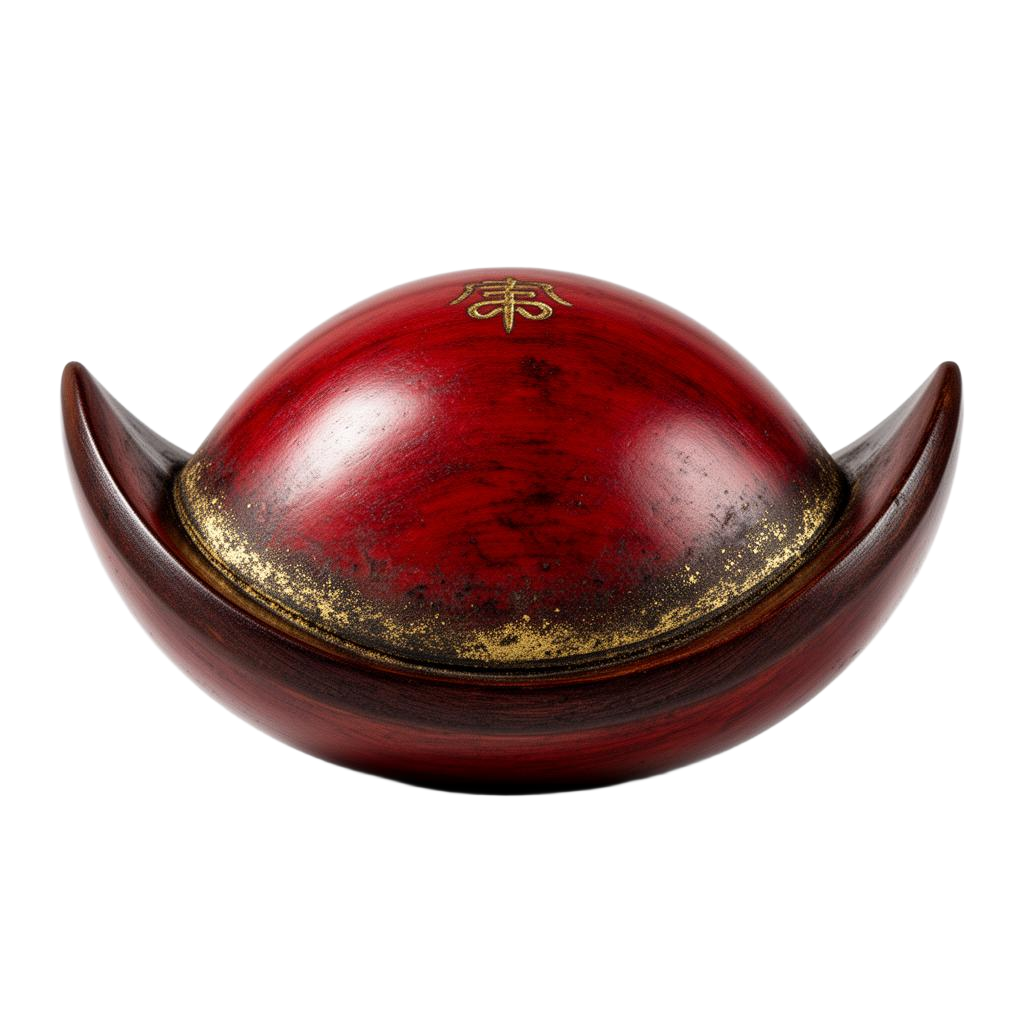
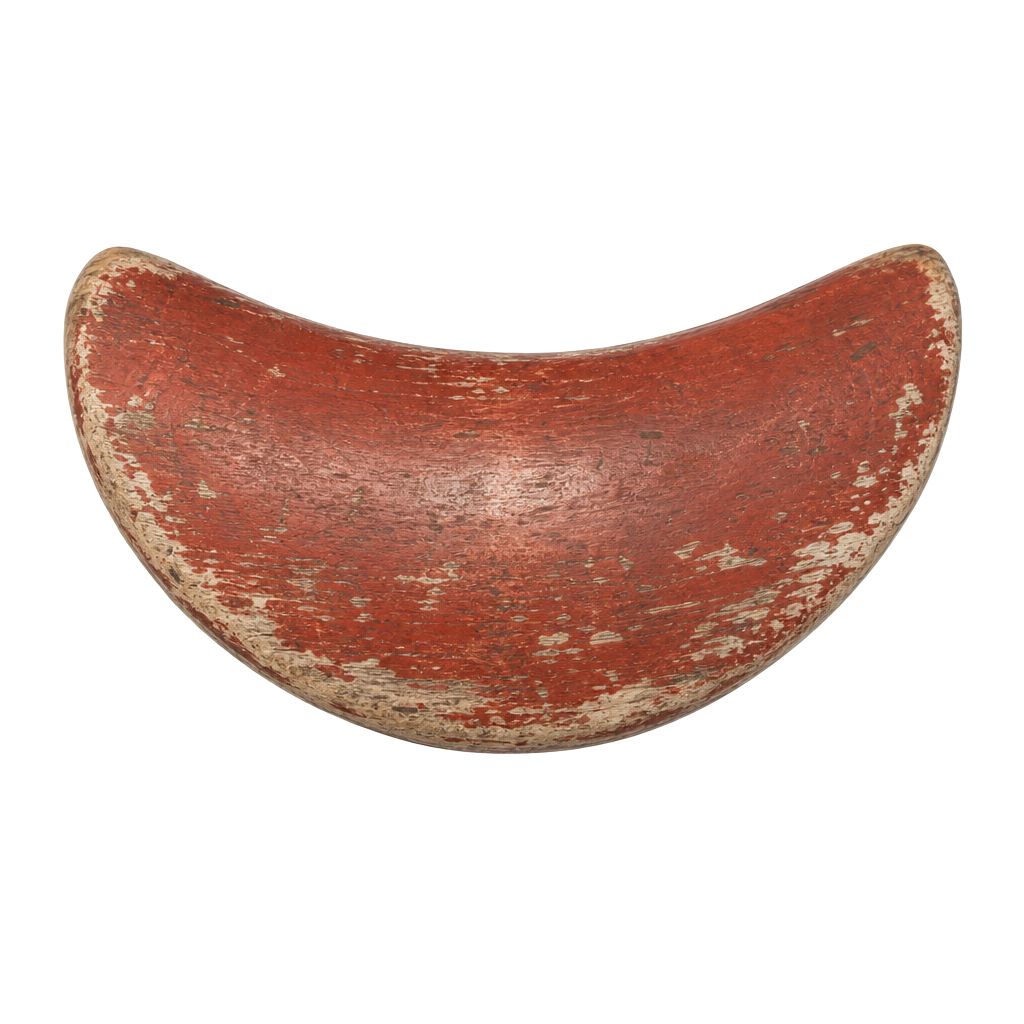
Changes

diff --git a/.lovable/plan.md b/.lovable/plan.md
@@ -1,174 +1,92 @@
-## 通天大圣灵签 — Web 高保真原型方案
 
-> 注：本项目运行环境为 TanStack Start Web 应用（非微信原生小程序）。本原型在浏览器中以移动端竖屏比例呈现完整流程、状态机、UI 组件和占位视觉，可作为后续微信小程序开发的设计与逻辑参考。
+## 目标
 
----
-
-### 一、整体架构
-
-**单页面 + 状态机驱动场景切换**：所有"场景"（入场动画 / 墓前 / 签诗柜 / 离场）作为同一个全屏舞台中的视图层切换，避免路由跳转打断沉浸感。
-
-```
-src/routes/index.tsx        承载整个仪式舞台
-src/lib/ritual-machine.ts   核心状态机（XState 风格的有限状态机）
-src/lib/signs.ts            64 签数据（签号、签题、吉凶、繁体签诗、白话提示）
-src/components/scenes/
-  EntranceScene.tsx         入场动画（CSS 视差 + 雾气）
-  TombScene.tsx             墓前场景（墓碑、香灰台、签筒）
-  ShrineScene.tsx           签诗柜场景（签文展示）
-  ExitScene.tsx             离场动画
-src/components/ritual/
-  WishPanel.tsx             请愿默念面板
-  JiaoBeiThrow.tsx          阴阳筊投掷与判定
-  SignShake.tsx             摇签按钮（动画 + 抽签）
-  SignConfirm.tsx           签号三圣筊确认
-  SignPoem.tsx              签文卷轴展示
-  AiOracleChat.tsx          AI 解签对话（真实接入 Lovable AI）
-  GratitudePanel.tsx        合掌 / 付费上香感谢
-  PaywallSheet.tsx          付费占位弹窗（还愿 / 上香）
-src/components/ui/
-  RitualButton.tsx          暗金描边浮现式按钮
-  RitualOverlay.tsx         半透明墨黑浮层
-  IncenseParticles.tsx      香烟粒子（Canvas / CSS）
-src/server/oracle.functions.ts  AI 解签 server function
-```
+参考用户上传的实物筊杯照片，把"阴阳筊"重做成**暖红色 + 旧木磨损**质感，并让入口、神龛、墓地、出口等场景的整体氛围更"旧"——冷色基调中突出筊杯这一抹暖红，形成强烈对比。
 
 ---
 
-### 二、核心状态机
+## 一、筊杯贴图重做（核心）
 
-每一步对应一个明确状态，转移由用户行为或筊结果驱动：
+参考图特征：
+- 弯月形（半月牙）剖面
+- **朱砂红 / 暗红漆**，已斑驳掉漆，露出底下的木胎与白底
+- 表面有划痕、磨损、油垢、岁月包浆
+- 边缘破损不规整，能看到木纹断面
+- 哑光、不反光，非常"旧"
 
-```text
-ENTRANCE
-  └─→ TOMB_IDLE                    (入场动画结束)
-        ├─→ WISHING                ("请愿")
-        │     └─→ JIAO_PERMIT      (默念完毕，开始掷筊问允)
-        │           ├─ 圣筊 → SHAKING_SIGN
-        │           ├─ 笑筊 → WISHING (重新稟明)
-        │           └─ 阴筊 → EXITING (今日不可)
-        ├─→ PAYWALL_REDEEM         ("付费还愿")
-        │     └─→ POST_RITUAL
-        │
-SHAKING_SIGN                        (摇签按钮，生成签号)
-  └─→ CONFIRM_SIGN                  (需连续 3 个圣筊)
-        ├─ 累计 3 圣筊 → SHRINE_POEM
-        ├─ 出现笑/阴筊 → SHAKING_SIGN (重摇)
-        └─ 用户放弃 → EXITING
+重新生成三张贴图（覆盖现有 `bei-curve.png` / `bei-flat.png` / `bei-edge.png`），统一风格：
 
-SHRINE_POEM                         (签诗柜场景)
-  ├─→ AI_ORACLE                    ("解签助手")
-  │     └─→ SHRINE_POEM            (返回签文)
-  └─→ TOMB_GRATITUDE               ("解签完毕")
+1. **bei-curve.png（凸面/俯视）**
+   - 半月形朱红漆面，中央漆色较饱满，两端磨损露白/露木
+   - 顶部一道高光线，但不刺眼
+   - 通体哑光、有手感的旧
 
-TOMB_GRATITUDE
-  ├─→ GRATITUDE_PALMS              ("合掌感谢")
-  └─→ PAYWALL_INCENSE              ("付费上香感谢")
-        └─→ GRATITUDE_PALMS
+2. **bei-flat.png（平面/底面）**
+   - 平面朝上：能看到木胎质感更多，边沿一圈红漆残留
+   - 中间油润的深色包浆
 
-GRATITUDE_PALMS / POST_RITUAL → POST_RITUAL_CHOICE
-  ├─→ WISHING                      ("再次请愿")
-  └─→ EXITING                      ("结束参拜")
-        └─→ ENTRANCE (循环)
-```
+3. **bei-edge.png（侧面/厚度）**
+   - 月牙厚度剖面，能看到一层红漆 + 木胎的夹层
+   - 翻转过半圈时短暂出现，强化立体厚度
 
-筊结果常量：`SHENG`（圣，一平一凹）、`XIAO`（笑，两平）、`YIN`（阴，两凸）。
+生成参数：
+- 模型：`google/gemini-3-pro-image-preview`（贴图细节关键，值得用 pro）
+- 透明背景 PNG
+- 风格关键词：weathered cinnabar red lacquer, worn wood grain, chipped paint edges, matte aged patina, museum artifact photography, top-down studio light, isolated on white
 
 ---
 
-### 三、各场景视觉与交互
+## 二、调整筊杯落地的视觉与投影
 
-**入场动画（约 6 秒）**
-- 黑屏 → 竹林剪影渐显（CSS 多层视差） → 庙宇飞檐剪影从远到近（scale + translateY） → 红布条 SVG 飘动 → 雾气过场 → 墓前。
-- 粒子层：香烟、浮尘（Canvas）。
-- 底部"步入庙中"提示文案（暗金细体，淡入淡出）。
-
-**墓前场景**
-- 中央：石碑 SVG，竖排刻"通 / 天 / 大 / 聖"（繁体），字迹做斑驳遮罩。
-- 前景：香灰台（插残香）+ 散落落叶。
-- 背景：竹林模糊层 + 暗角晕影。
-- 底部浮现状态相关按钮组（请愿 / 付费还愿 / 感谢 / 再次请愿 / 结束参拜）——按钮根据状态机切换。
-
-**掷筊**
-- 浮层中两枚月牙形阴阳筊 SVG，CSS 3D `rotateX/rotateY` 翻滚动画，停止后揭示结果。
-- 结果卡：圣筊（暗金）/ 笑筊（暖橙）/ 阴筊（冷青），附释义。
-- 签号确认：顶部计数 ●●○ 显示已得圣筊数。
-
-**摇签**
-- "摇签"按钮：长按或点击触发签筒晃动（CSS keyframes），1.2 秒后弹出签条，显示签号（如「第三十二籤 中吉」）。
-
-**签诗柜场景**
-- 切换为更暗、更窄的庙内构图：签柜木格背景，单张旧纸签条居中（米黄底 + 墨字 + 朱印章）。
-- 竖排签诗四句 + 横排白话提示。
-- 底部："解签助手" / "解签完毕"。
-
-**AI 解签**
-- 全屏对话浮层（保留场景背景虚化）。
-- 顶栏："返回签文"。
-- 消息流支持 Markdown 渲染（react-markdown）。
-- 接入 Lovable AI Gateway（`google/gemini-3-flash-preview`），通过 `createServerFn` 调用，system prompt 注入当前签文上下文，引导以"庙祝"口吻、克制、白话+古意解释。
-- 处理 429 / 402 错误并 toast 提示。
-
-**感谢 / 付费**
-- 合掌感谢：双手合十 SVG 浮现 + "心诚则灵" 默念文案。
-- 付费占位弹窗（PaywallSheet）：
-  - 还愿：金额 9.9 / 19.9 / 66 / 自定义；占位"模拟支付成功"按钮。
-  - 上香感谢：1 支 / 3 支 / 9 支香选择，对应不同金额；同样模拟支付。
-- 支付成功后写入本地 state（不持久化），继续流程。
-
-**离场动画**
-- 镜头反向：庙门 → 红布条 → 石阶 → 竹林山路渐远 → 黑屏 → "下次再来" 暗金题字 → 重置回入场。
+`JiaoBeiThrow.tsx` 中：
+- 把投影颜色从纯黑（`bg-black/70`）改成更柔的暖灰：`oklch(0.18 0.02 40 / 0.55)`，更贴合旧地面
+- 尘粒颜色从米黄改成偏冷的青灰 `oklch(0.62 0.02 220 / 0.6)`，让暖红筊杯在冷尘雾中更突出
+- `ImpactRing` 由金色波纹改成**朱红波纹** `oklch(0.55 0.15 30 / 0.5)`，与筊杯主色呼应
+- `BeiStill`(idle 预览) 加一层非常微弱的暖红 `drop-shadow`（光晕），暗示它是"活的暖色"
 
 ---
 
-### 四、视觉设计令牌（src/styles.css）
+## 三、统一全场景"旧"氛围
 
-新增 oklch 暗色仪式主题：
+只动呈现层（颜色/滤镜/叠加层），不动业务逻辑。
 
-```text
---background       近黑墨色（oklch ~0.12 微冷）
---foreground       旧纸米白（oklch ~0.88 微暖）
---ritual-gold      暗金（oklch ~0.72 0.12 85）   按钮描边、神性高光
---ritual-ember     香火橙红（oklch ~0.62 0.16 40）
---ritual-moss      苔绿（oklch ~0.45 0.05 145）
---ritual-stone     青灰石（oklch ~0.38 0.01 230）
---ritual-paper     旧纸黄（oklch ~0.82 0.06 80）
---ritual-ink       墨黑（oklch ~0.15 0.01 250）
---gradient-fog     竖向雾气渐变
---shadow-incense   暖橙发光（香火）
---shadow-altar     大范围底部暗角
-```
+1. **`src/styles.css` 设计令牌**
+   - 新增/调整：
+     - `--aged-overlay`: 一层全局淡褐色叠层 `oklch(0.35 0.04 60 / 0.08)`，模拟旧照片色偏
+     - `--bei-red`: `oklch(0.52 0.16 30)`（旧朱砂红）
+     - `--bei-red-glow`: `oklch(0.62 0.18 32 / 0.4)`
+   - 现有金色 `--gold` 不动，保持仪式感
 
-字体：标题/碑文用 `"Noto Serif TC", "Ma Shan Zheng", serif`（繁体衬线，谷歌字体加载）；正文用 `"Noto Serif SC"`；UI 提示用细瘦衬线。绝不使用 Inter / 现代无衬线作为主字体。
+2. **`EntranceScene.tsx` / `ExitScene.tsx` / `ShrineScene.tsx` / `TombScene.tsx`**
+   - 在最顶层加一个不可点击的 `aged-overlay` div：
+     - 极轻的褐黄叠加（`mix-blend-mode: multiply`）
+     - 极轻的颗粒感（用现有 noise/gradient，不引入新资源）
+     - 四角微暗角（vignette）`radial-gradient` 让中心更亮、四周更旧
+   - 入口/墓地场景的暖光光晕（之前已加）颜色微调，与新的 `--bei-red` 成系列
 
-动画：`fade-in`、`scale-in`、新增 `incense-rise`（粒子上升）、`bei-tumble`（筊翻转）、`scroll-unfurl`（签纸展开）、`gate-pass`（穿越遮罩转场）。
-
----
-
-### 五、技术细节
-
-- **AI 解签 server function**：`src/server/oracle.functions.ts`
-  - 输入：`{ signNumber, signTitle, signPoem, userQuestion, history }`
-  - 调用 Lovable AI Gateway，非流式（`supabase.functions.invoke` 不可用，本项目用 server fn + fetch），可选后续升级为 SSE。
-  - 需启用 Lovable Cloud 以获得 `LOVABLE_API_KEY`。
-- **签库**：内置 32~64 条示例签（含繁体签诗 + 吉凶 + 简短解），抽签为前端伪随机即可。
-- **付费占位**：纯前端弹窗，无真实支付集成。
-- **设备摇动**：本期不实现，仅按钮模拟，按钮带摇晃微动效暗示。
-- **响应式**：以 390×844（iPhone 标准）为基准，桌面端在画布两侧加暗色空间并居中。
+3. **`SignPoemView` / 签筒** 等其他红色元素
+   - 顺手把签条/印章红色统一到 `--bei-red`，避免出现多种"红"打架
 
 ---
 
-### 六、首期实现顺序
+## 四、技术细节
 
-1. 启用 Lovable Cloud（为 AI 解签准备）。
-2. 写入设计令牌、字体、全局暗色仪式主题。
-3. 搭建状态机 + 主舞台容器 + 场景切换框架。
-4. 实现入场 / 离场动画占位。
-5. 实现墓前场景 + 请愿 + 掷筊 + 摇签 + 签号确认完整逻辑。
-6. 实现签诗柜场景 + 签文展示。
-7. 接入 AI 解签 server function + 对话 UI。
-8. 实现感谢、付费占位弹窗、再次请愿 / 结束参拜分支。
-9. 香烟粒子、雾气、暗角等氛围润色。
-10. 全流程联调。
+文件改动清单：
+- 重新生成：`src/assets/bei-curve.png`、`src/assets/bei-flat.png`、`src/assets/bei-edge.png`
+- 编辑：`src/components/ritual/JiaoBeiThrow.tsx`（投影/尘粒/波纹颜色）
+- 编辑：`src/styles.css`（新令牌 + aged overlay 工具类）
+- 编辑：`src/components/scenes/EntranceScene.tsx`、`ExitScene.tsx`、`ShrineScene.tsx`、`TombScene.tsx`（追加 vignette + aged overlay 层）
+- 不动：`src/lib/jiaobei.ts`（业务逻辑）、Supabase / 路由 / 服务端函数
 
-完成后即可在预览中走完一遍完整参拜仪式。
+QA：
+- 生成贴图后用 `code--view` 逐张目检（透明背景、磨损可见、不糊）
+- 在 idle 预览、抛掷中、落地三态下分别截图比对，确认"暖红 vs 冷场"对比成立
+- 检查全场景叠加层不影响交互（`pointer-events: none`、`z-index` 在内容之下、UI 之上的合适位置）
+
+---
+
+## 不在范围
+
+- 不改抛掷物理参数（已经调过）
+- 不改运镜/步频（已经调过）
+- 不改 AI / 数据库 / 路由
